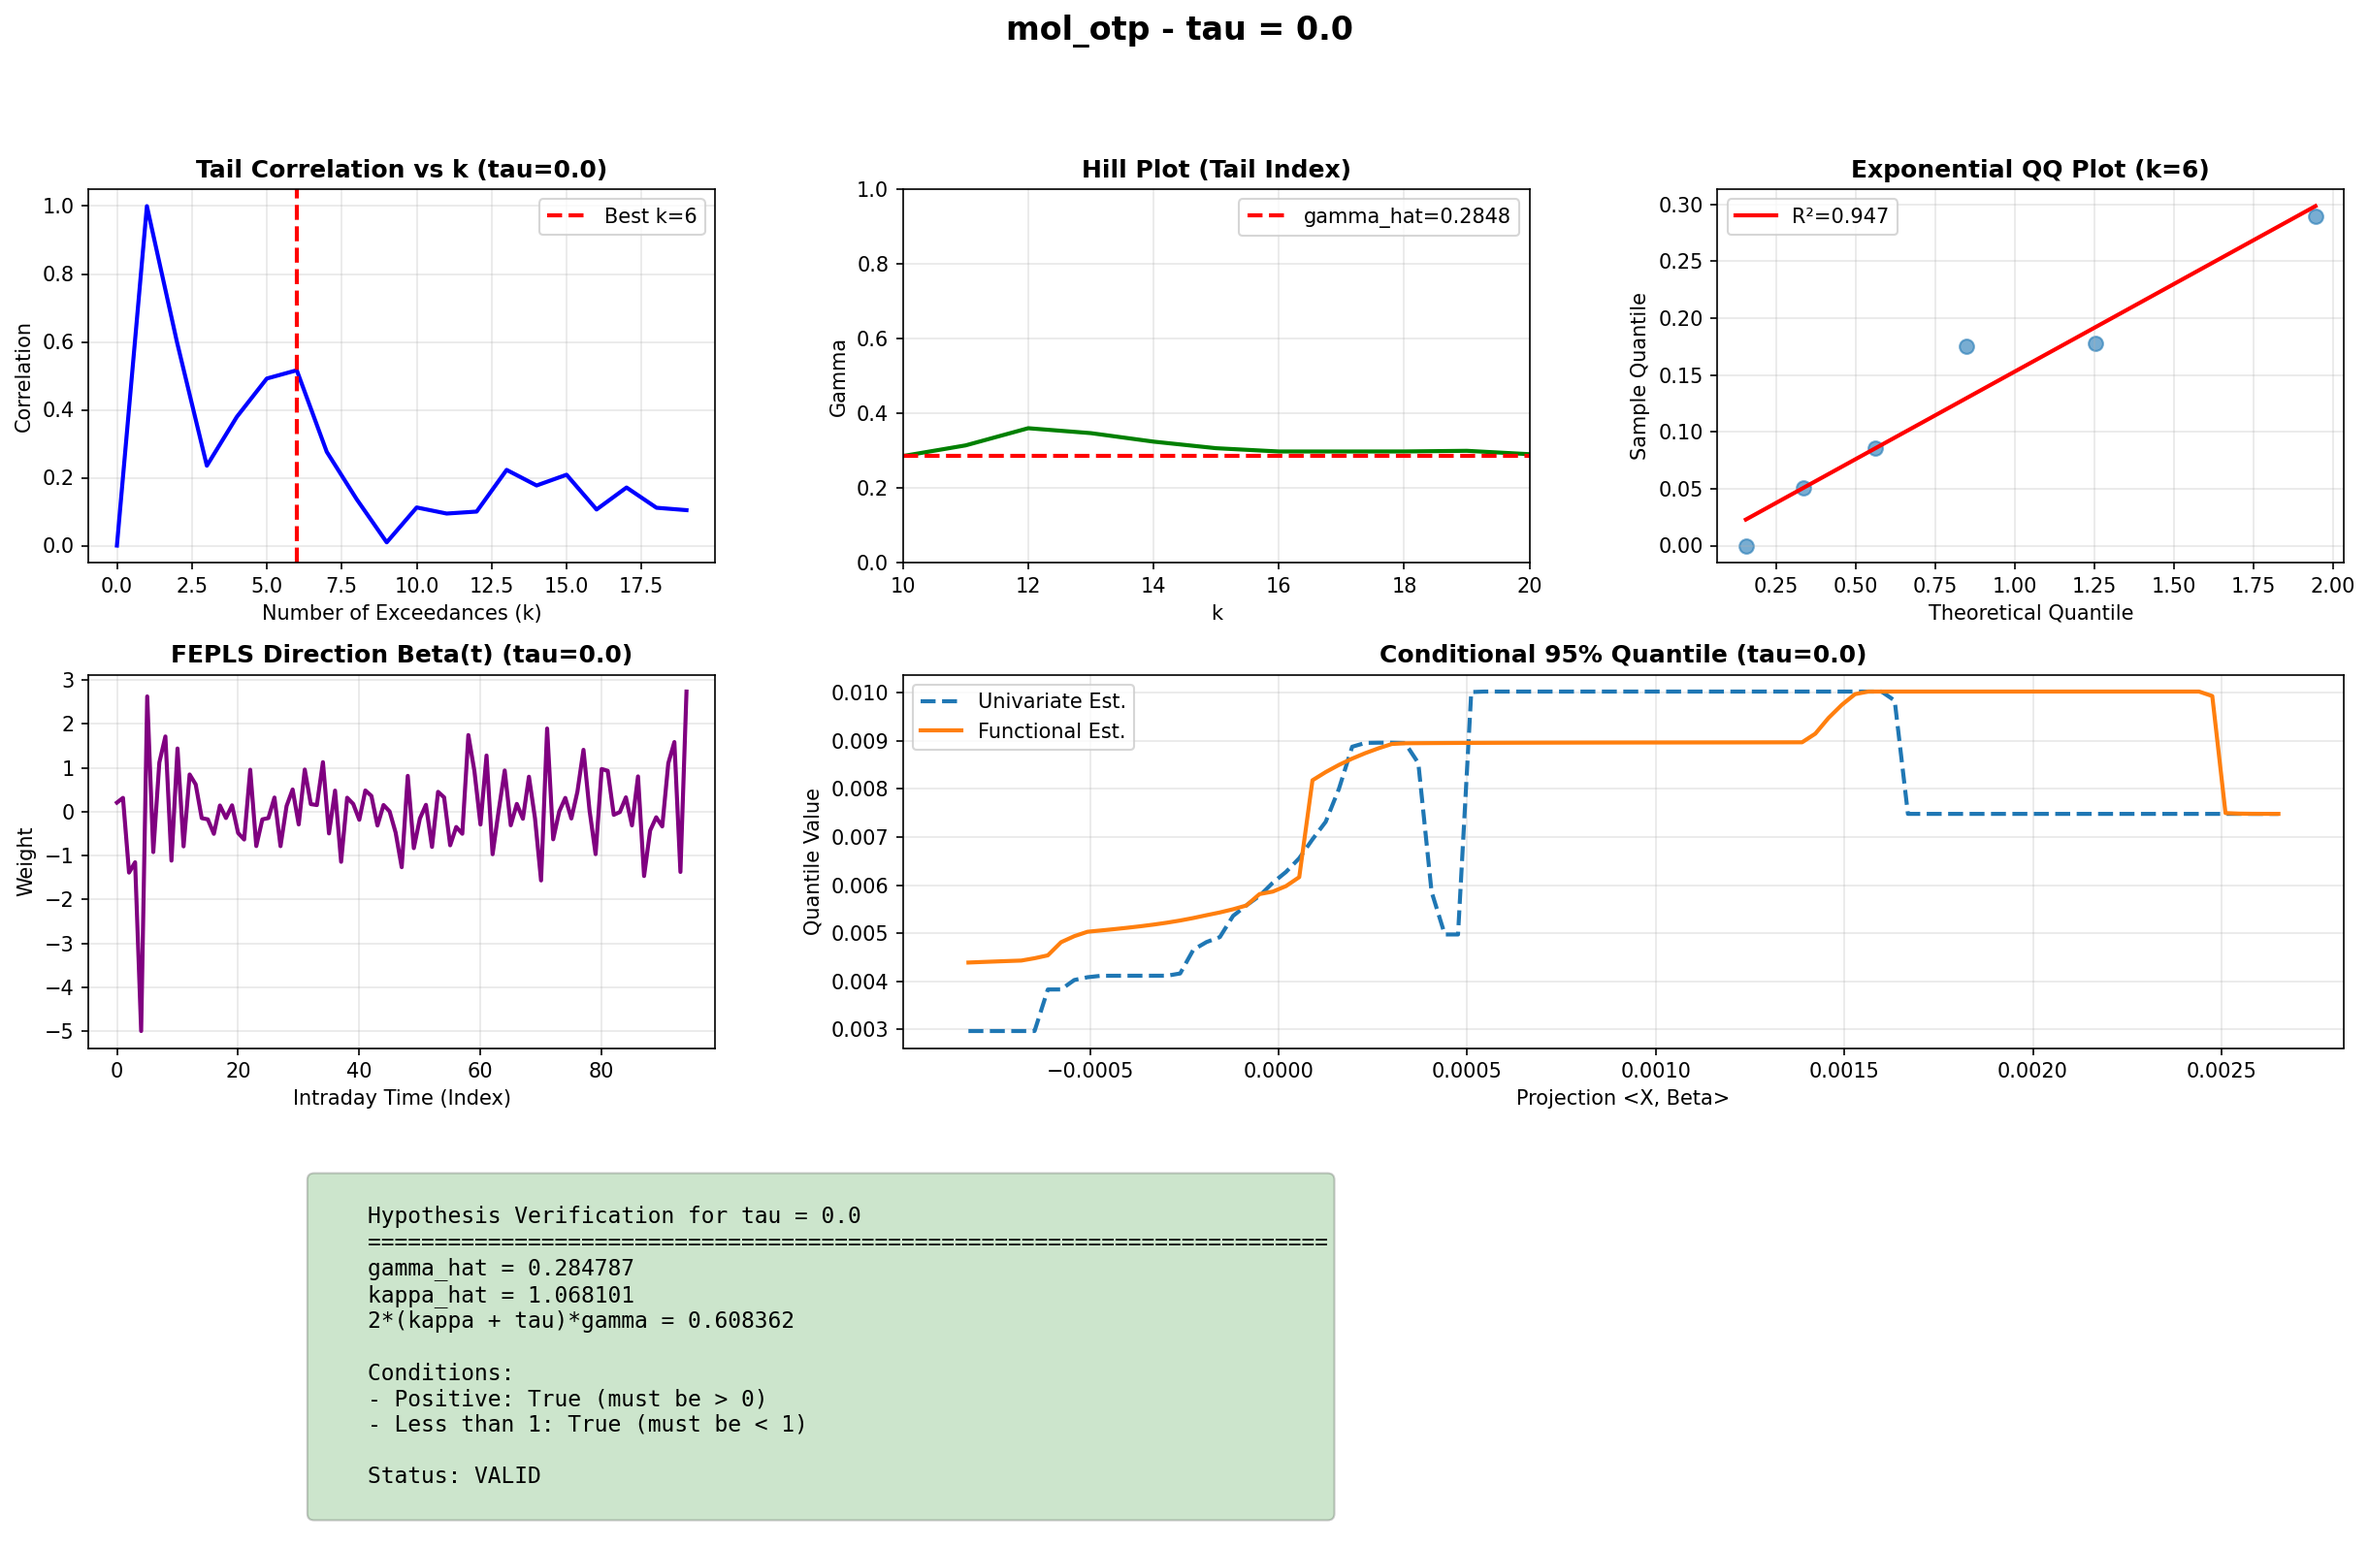
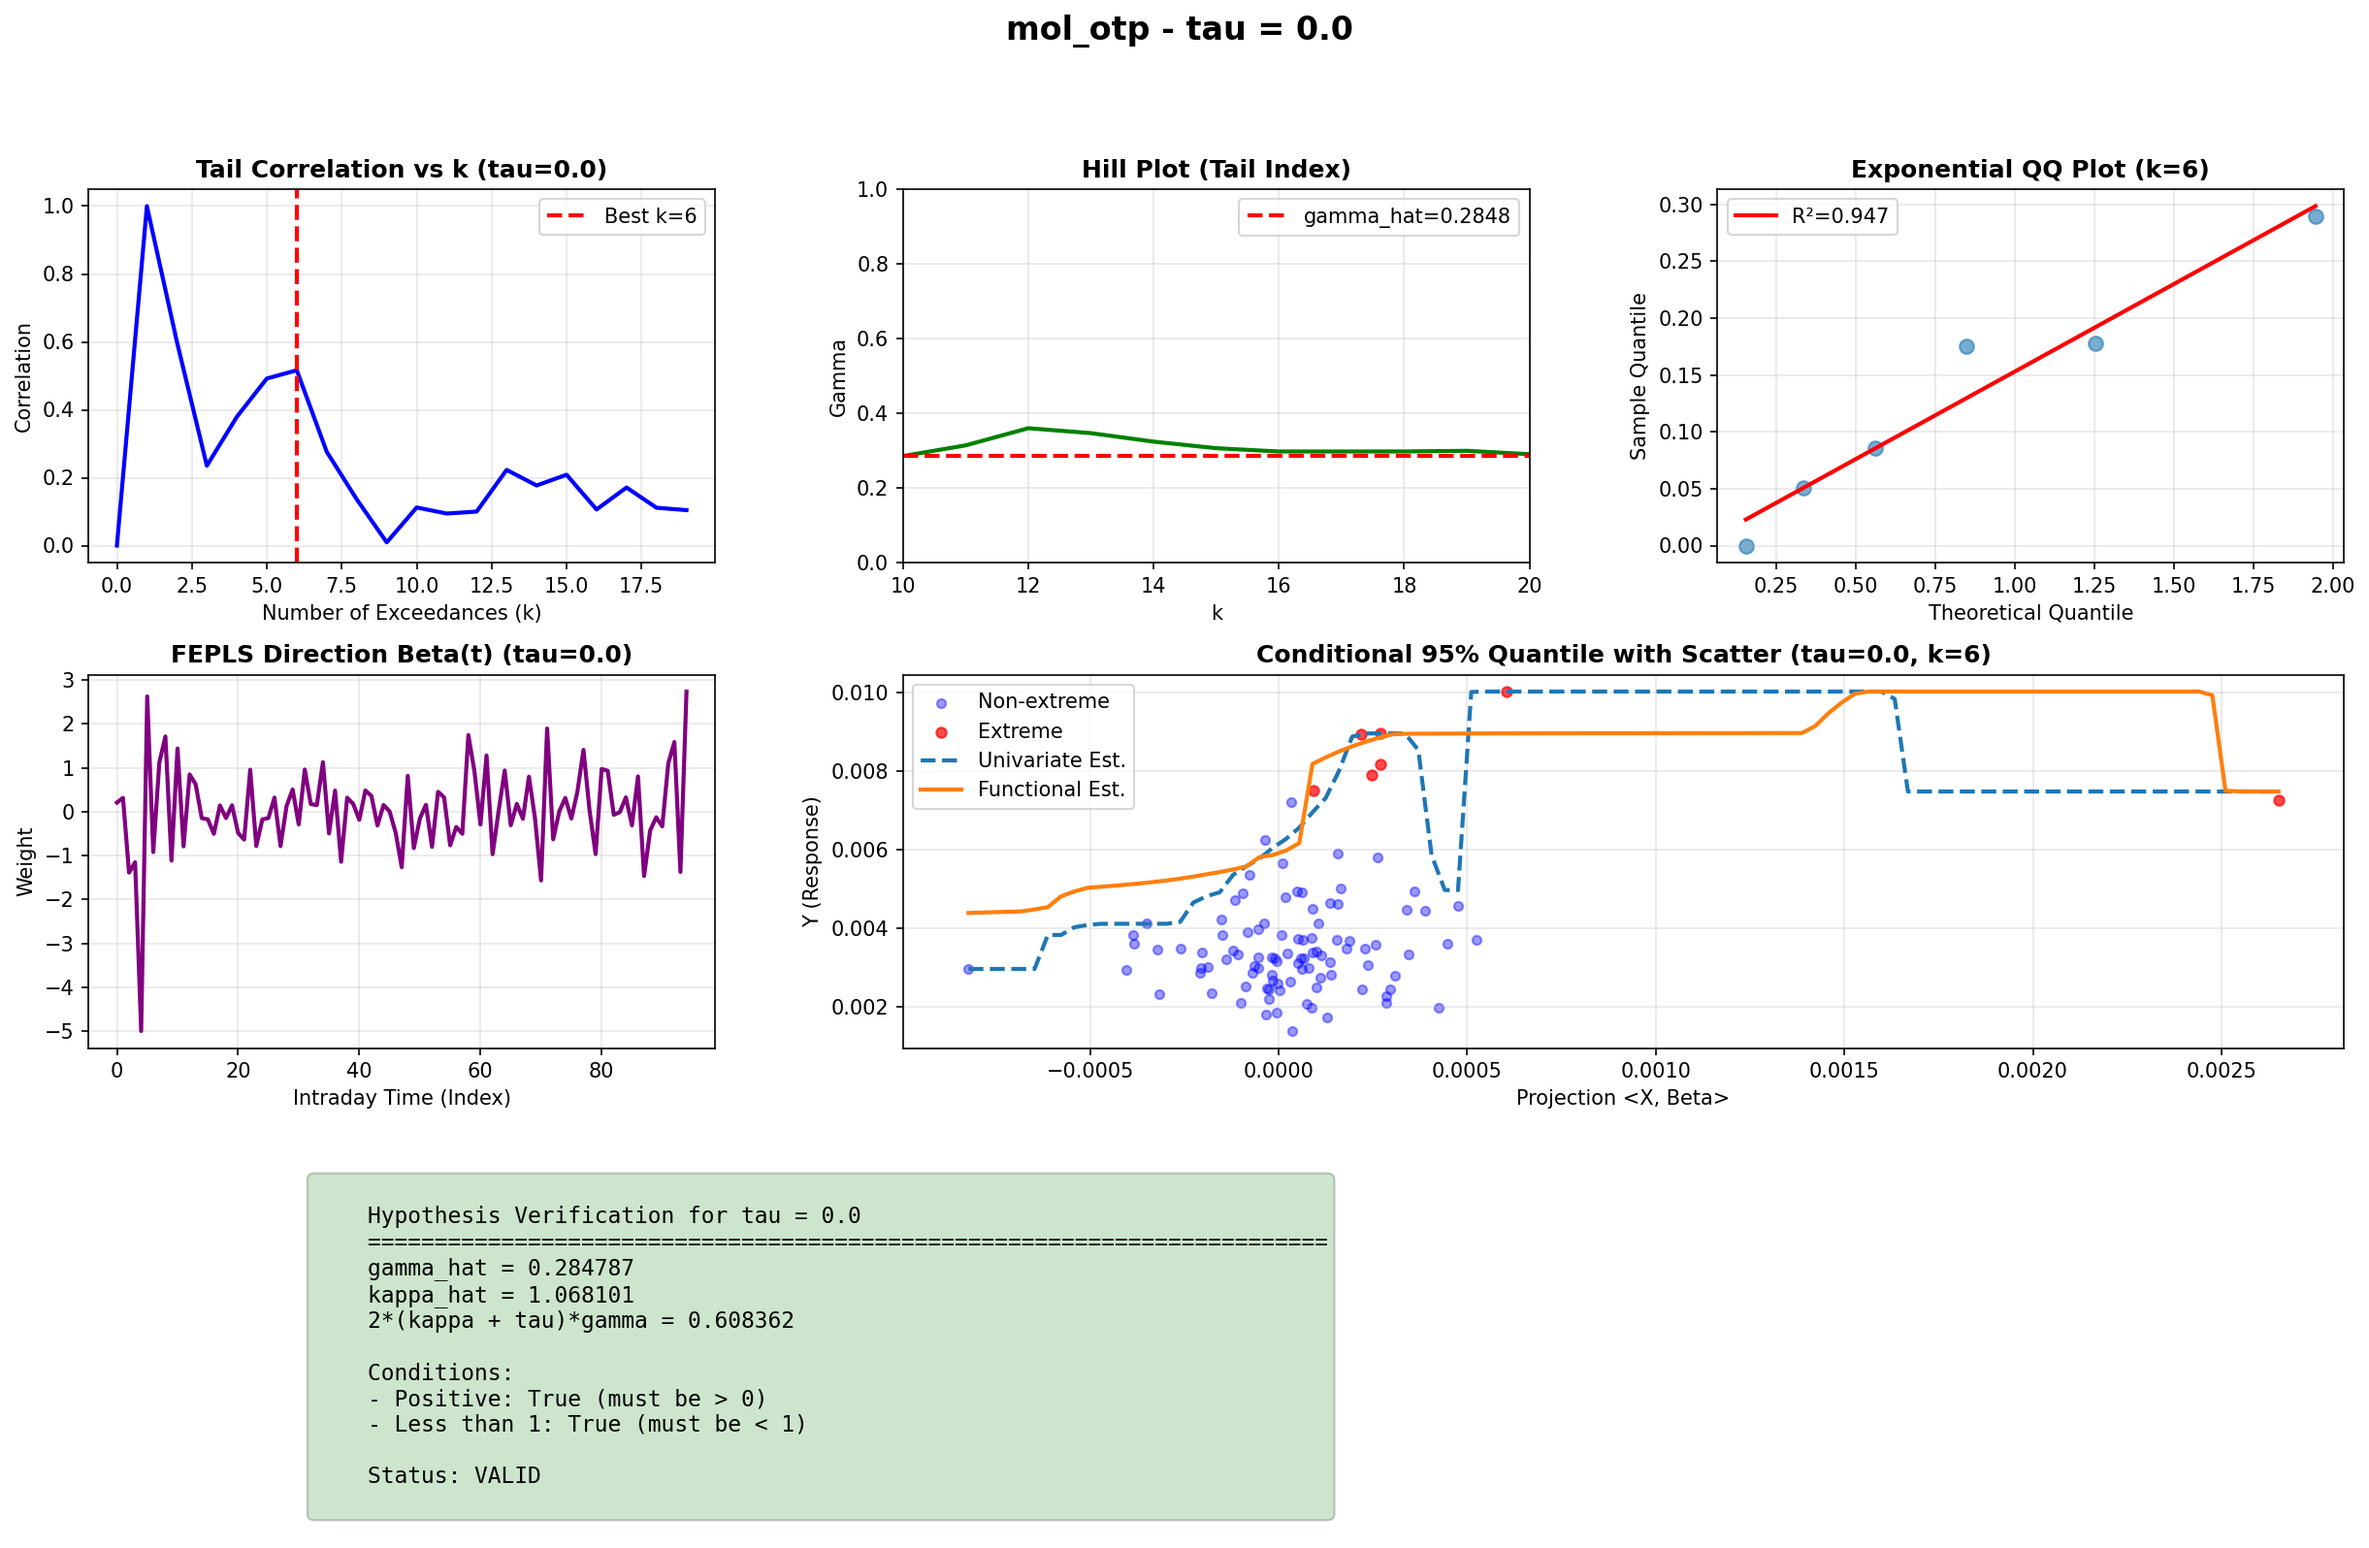
large scale comparisons

diff --git a/notebooks/new/large_scale_tau_comparison_plotting.py b/notebooks/new/large_scale_tau_comparison_plotting.py
@@ -166,12 +166,21 @@ def plot_single_tau_analysis(
     ax4.set_ylabel('Weight')
     ax4.grid(True, alpha=0.3)
     
-    # Plot 5: Conditional Quantile
+    # Plot 5: Conditional Quantile with Scatter
     ax5 = fig.add_subplot(gs[1, 1:])
     h_univ = 0.2 * np.std(np.dot(X_fepls[0], beta_hat) / d_points)
     h_func = 0.2 * np.mean(np.std(X_fepls[0], axis=0))
     h_univ_vec = h_univ * np.ones(n_samples)
     h_func_vec = h_func * np.ones(n_samples)
+    
+    # we compute projections for scatter plot
+    proj_vals = np.dot(X_fepls[0], beta_hat) / d_points
+    Y_vals = Y_fepls[0]
+    
+    # we identify extreme and non-extreme points based on best_k threshold
+    Y_sorted_idx = np.argsort(Y_vals)[::-1]
+    extreme_threshold = Y_vals[Y_sorted_idx[best_k]] if best_k < len(Y_vals) else np.median(Y_vals)
+    is_extreme = Y_vals >= extreme_threshold
     
     try:
         quantiles, s_grid = plot_quantile_conditional_on_sample_new(
@@ -182,15 +191,22 @@ def plot_single_tau_analysis(
             h_univ_vector=h_univ_vec,
             h_func_vector=h_func_vec
         )
-        ax5.plot(s_grid, quantiles[:, 0], label='Univariate Est.', linestyle='--', linewidth=2)
-        ax5.plot(s_grid, quantiles[:, 1], label='Functional Est.', linewidth=2)
+        # we scatter non-extreme points in blue
+        ax5.scatter(proj_vals[~is_extreme], Y_vals[~is_extreme], 
+                   alpha=0.4, s=20, color='blue', label='Non-extreme', zorder=1)
+        # we scatter extreme points in red
+        ax5.scatter(proj_vals[is_extreme], Y_vals[is_extreme], 
+                   alpha=0.7, s=25, color='red', label='Extreme', zorder=2)
+        # we plot quantile curves
+        ax5.plot(s_grid, quantiles[:, 0], label='Univariate Est.', linestyle='--', linewidth=2, zorder=3)
+        ax5.plot(s_grid, quantiles[:, 1], label='Functional Est.', linewidth=2, zorder=3)
     except Exception as e:
         ax5.text(0.5, 0.5, f'Error computing quantiles: {e}', 
                 transform=ax5.transAxes, ha='center')
-    ax5.set_title(f'Conditional 95% Quantile (tau={tau})', fontsize=12, fontweight='bold')
+    ax5.set_title(f'Conditional 95% Quantile with Scatter (tau={tau}, k={best_k})', fontsize=12, fontweight='bold')
     ax5.set_xlabel('Projection <X, Beta>')
-    ax5.set_ylabel('Quantile Value')
-    ax5.legend()
+    ax5.set_ylabel('Y (Response)')
+    ax5.legend(loc='best')
     ax5.grid(True, alpha=0.3)
     
     # Plot 6: Hypothesis verification summary
@@ -363,16 +379,24 @@ def analyze_pair_with_multiple_tau(
         # we compute correlation curve for this tau
         corr_curve = bitcoin_concomittant_corr(X_fepls, Y_fepls, tau, m_threshold)
         
-        # we find best k
+        # we find best k using sharpness (sharpest peak)
         valid_k_start = 5
         if len(corr_curve) > valid_k_start:
             valid_curve = corr_curve[valid_k_start:]
-            best_k_idx = np.argmax(valid_curve)
+            # we calculate sharpness for all points in valid range
+            sharpness_values = np.zeros(len(valid_curve))
+            for i in range(1, len(valid_curve) - 1):
+                # sharpness = 2*C[k] - C[k-1] - C[k+1] (local convexity)
+                sharpness_values[i] = 2 * valid_curve[i] - valid_curve[i-1] - valid_curve[i+1]
+            # we find the sharpest peak (highest sharpness)
+            best_k_idx = np.argmax(sharpness_values)
             best_k = best_k_idx + valid_k_start
             max_corr = valid_curve[best_k_idx]
+            sharpness = sharpness_values[best_k_idx]
         else:
             best_k = valid_k_start if len(corr_curve) > valid_k_start else 2
             max_corr = 0.0
+            sharpness = 0.0
         
         # we compute beta_hat for this tau using FEPLS
         Y_sorted = np.sort(Y_fepls[0])[::-1]
@@ -404,6 +428,7 @@ def analyze_pair_with_multiple_tau(
             'beta_hat': beta_hat,
             'best_k': best_k,
             'max_correlation': max_corr,
+            'sharpness': sharpness,
             'hypothesis_value': hypothesis_value,
             'hypothesis_valid': hypothesis_valid,
         })
